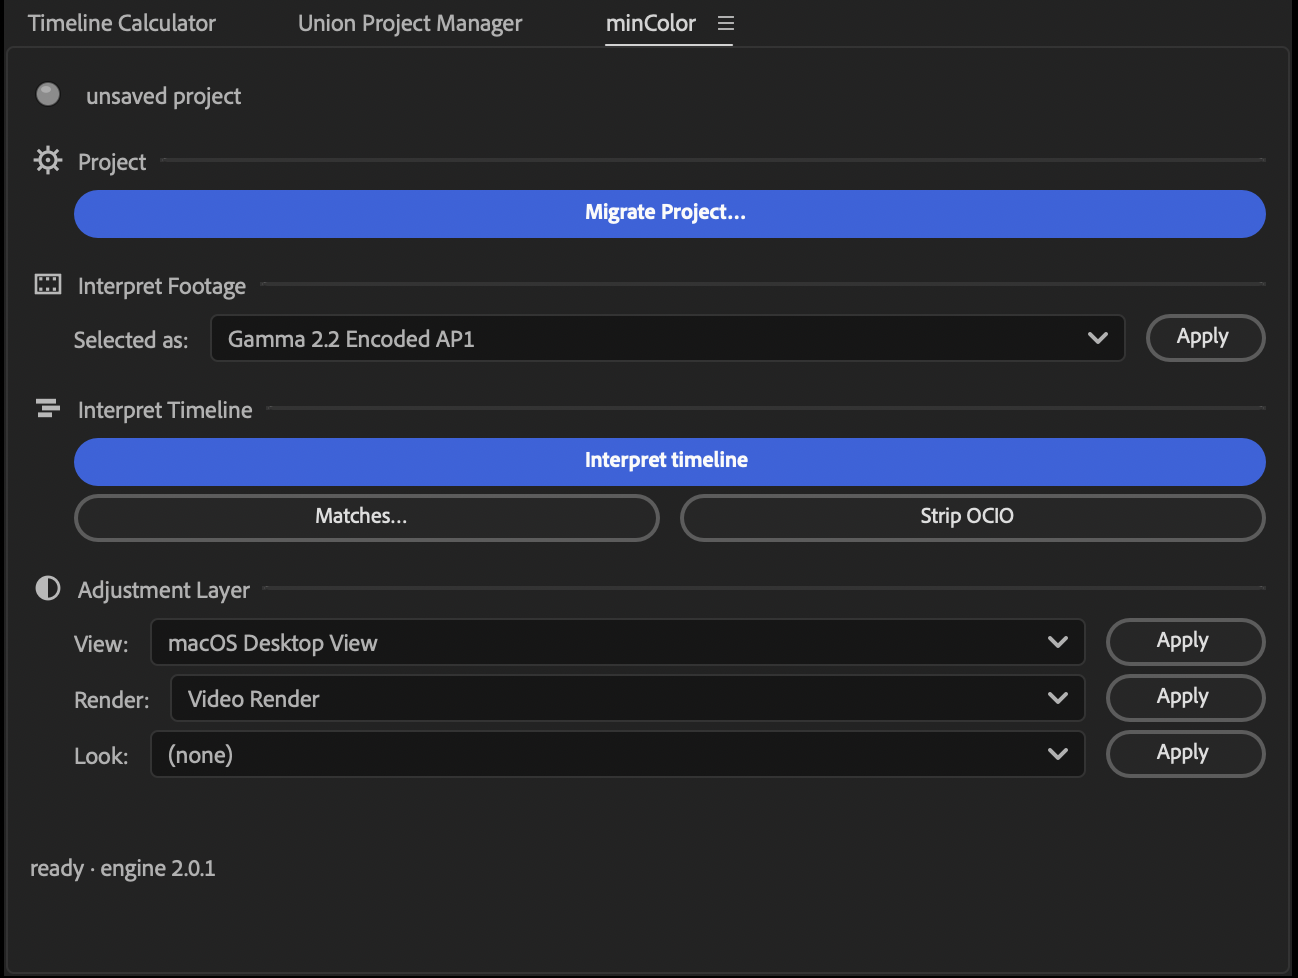
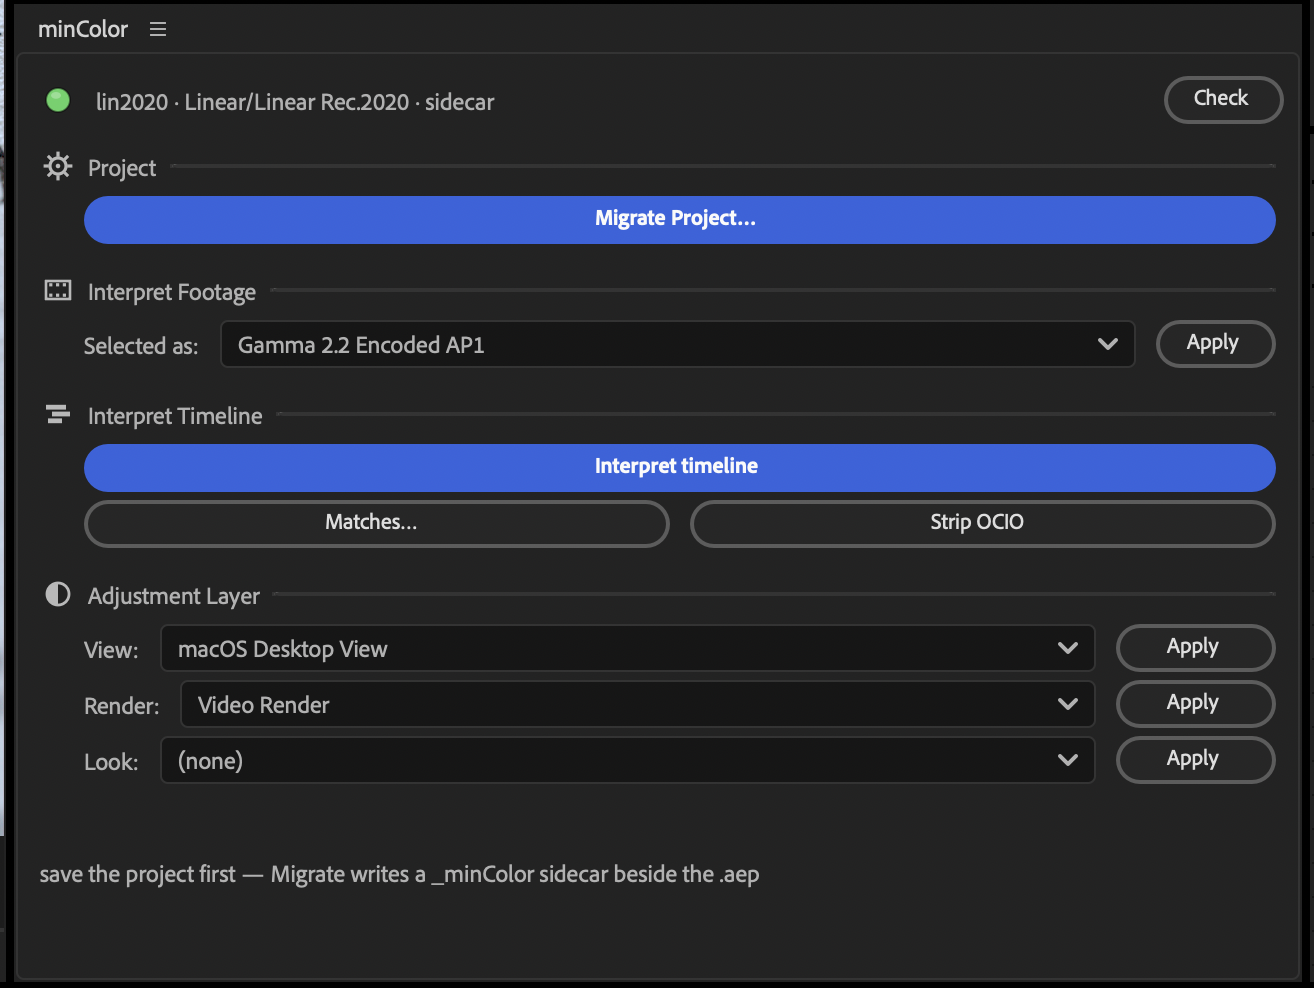
docs

diff --git a/src/minColor Shell.jsx b/src/minColor Shell.jsx
@@ -264,12 +264,14 @@
     if (d) d.__fresh = changed;                       // heal only on TRANSITION, never every tick
     return d;
   }
-  function liveHeal(d) {                              // the panel's auto-heal, engine-computed target
+  function liveHeal(d) {                              // the panel's auto-heal (after a panel command on yellow)
+    /* Through the NATIVE Repair (2026-09-06): it regenerates the _minColor interface config from the
+       embedded preset, re-pins live, rewrites the menus and syncs the effects. The old shell-side
+       re-pin only set the path — with the _minColor folder missing it pinned a file that did not
+       exist and the lamp stayed yellow. */
     var oldPin = app.project.ocioConfigurationFile || "(empty)";
-    app.project.colorManagementSystem = 1;            // (CMS enum: OCIO)
-    app.project.ocioConfigurationFile = d.repairTarget;
+    runCmd("minColor: Repair", {}, "repair");
     app.purge(PurgeTarget.ALL_CACHES);                // cached frames predate the heal
-    runCmd("minColor: Sync From Names", {});          // refresh the effects against the healed authority
     var after = doctorNow();
     if (after && after.status === "green") {
       log("auto-repaired config pin");
@@ -339,9 +341,12 @@
   }
   bRepair.onClick = function () {
     guard("Repair", function () {
-      var d = doctorNow();
-      if (d && d.repairTarget) { liveHeal(d); return "healed"; }
-      var r = runCmd("minColor: Repair", {}, "repair");   // shell-less twin as fallback (reopens)
+      /* ALWAYS the native command (2026-09-06): it regenerates the _minColor interface config from
+         the embedded preset before re-pinning, so a project that arrived WITHOUT its _minColor
+         folder still heals. The shell-side liveHeal only re-points the pin — on a missing file
+         it pinned a path that did not exist and the lamp stayed yellow. (Native Repair has been a
+         live re-pin, no reopen, since 2026-09-05 — the old reason to avoid it is gone.) */
+      var r = runCmd("minColor: Repair", {}, "repair");
       return r.status + (r.repairedTo ? " \u2190 " + r.repairedTo : "");
     });
   };

diff --git a/README.md b/README.md
@@ -1,20 +1,32 @@
 # minColor
 
-**minColor** is an OCIO-based color setup and a workflow plugin for Adobe After Effects. It manages your media and timeline color spaces —  bypassing AE's "Interpret Media" workflow.
+**minColor** is a free and open-source OCIO workflow plugin for Adobe After Effects. It manages your media and timeline color spaces — bypassing AE's "Interpret Media” workflow and using adjustment layers for viewport and render transforms.
 
+> [!NOTE]
 > minColor's approach is inspired by **Brendan Bolles' [fnordware OpenColorIO plug-in](https://www.fnord.com) for After Effects**. See [Credits & third-party notices](THIRD-PARTY-NOTICES.md).
-
-**OCIO-based workflows:**
-- Several **Linear** workflows with common `ACES` and `Blender` staples (ACEScg, ACES AP0, linear rec.709, linear rec.2020). These have familiar settings for anyone comfortable with `ACES` or `Blender` setups.
-- An **SDR** workflow meant to supplement Adobe's legacy ICC/ICM workflow for daily SDR work. The SDR config is based on a `Rec. 709, Gamma 2.2` working space, with easy transforms to `sRGB` and `Rec. 1886` for viewing and output.
-- All profiles use the working space and default media space as `scene_linear` so no more ACEScg vs ACES2065-1 dancing.
-
-Windows- and macOS-flavored view transforms are provided to counteract differences in how After Effects handles color management in each OS. Use this workaround for proper viewport colors on macOS until Adobe fixes it.
 
 
 ---
 
-## Install
+## What it is:
+
+minColor provides:
+
+### A control panel for daily usage.
+
+Easy batch actions for OCIO project management.
+
+![mC_001.png](images/mC_001.png)
+
+### And OCIO effects
+
+Similar in usage to the Native AE OCIO effects, but not reliant on external configs.
+
+![mC_011.png](images/mC_011.png)
+
+---
+
+## How to Install:
 
 ### macOS
 
@@ -24,69 +36,74 @@ Download `minColor-<version>.pkg` from [Releases](https://github.com/cbkow/minCo
 
 Download `minColor-<version>.msi` from [Releases](https://github.com/cbkow/minColor/releases/latest), quit After Effects, and run it. The installer is unsigned, so Windows will ask for permission to run it.
 
----
+### Manually
 
-## The Basics
-
-minColor provides:
-
-#### A scriptUI control panel for daily usage.
-
-![mC_001.png](images/mC_001.png)
-
-#### And OCIO effects
-
-![mC_001.png](images/mC_011.png)
+Download `minColor-<version>.zip` from [Releases](https://github.com/cbkow/minColor/releases) and follow the included instructions to install both the plugin and the UI script.
 
 ---
 
-## Usage
+## Usage:
 
-The Effects layers work just like OCIO native plugins in AE but bypass AE’s color management. When you `migrate` a project, it loads a dummy OCIO profile that simply assigns a working and media default space to the same profile value. Meaning every item in an `ACEScg` project will, by default, be interpreted as `ACEScg` without additional transformations.
+The Effects layers work just like OCIO native plugins in AE but bypass AE’s color management. The Effects themselves handle OCIO configs internally — all of which are derived from ACES 2.0 and Blender 5.2 configs. They do not rely on OCIO configs from AE’s project settings.
 
-This is a hack to effectively tell AE to ***stop thinking about what you are doing!*** The real OCIO profiles are embedded in the plugins and are not dependent on file paths.
+1. First, you `migrate` a project (See Panel Controls Below). It loads a dummy OCIO profile into AE’s project settings that simply assigns the selected color space as both the media-default color space and the working color space. Meaning every item in an `ACEScg` project will, by default, be interpreted as `ACEScg` without additional transformations.
 
-You can then use the minColor effects as a substitute for AE’s default OCIO effects, and mimic a similar OCIO workflow as the classic fnord plugin.
+2. Set your viewing and rendering spaces in the panel and use the panel or the timeline to toggle between the View and Render Adjustment Layers when working/rendering.
+
+3. Interpret Timeline as a batch process that will apply Rendering and View Adjustment Layers automatically and comb through an open timeline (and recursively all precomps within), then assign color profiles to each based on presets set in the `Matches…` button. (See Panel Controls Below)
+
+> [!NOTE]
+> This is a hack to effectively tell AE to ***stop thinking about what you are doing!*** The real OCIO profiles are embedded in the plugins and are not dependent on file paths.
+
+**OCIO-based workflows (selected in Migration):**
+- **ACEScg** is a combination of ACES 2.0 and Blender 5.2 configs. All transforms from both are included. The working and default media spaces are both **ACES AP1 (ACEScg)**, and all media transforms work from there.
+- **ACES2065-1** is a combination of ACES 2.0 and Blender 5.2 configs. All transforms from both are included. The working and default media spaces are both **ACES AP0 (ACES 2065-1)**, and all media transforms work from that assumption.
+- **Linear Rec.709** is a combination of ACES 2.0 and Blender 5.2 configs. All transforms from both are included. The working and default media spaces are both **Linear Rec.709 (Linear sRGB)**, and all media transforms work from that assumption. This has parity to Blender Default flows, including AGX.
+- **Linear Rec.2020** is a combination of ACES 2.0 and Blender 5.2 configs. All transforms from both are included. The working and default media spaces are both **Linear Rec.2020**, and all media transforms assume that.
+- **SDR** is meant to supplement Adobe's legacy ICC/ICM workflow for daily SDR work. The SDR config is based on a `Rec. 709, Gamma 2.2` working space, with easy transforms to `sRGB` and `Rec. 1886` for viewing and output.
+  
+> [!TIP]
+> All profiles use the same working space and default media space, *so no more ACEScg vs ACES2065-1 dancing.*
+
+Windows- and macOS-flavored view transforms are provided to counteract differences in how After Effects handles color management in each OS. Use this workaround for proper viewport colors on macOS until Adobe fixes it.
 
 ---
 
-## Using the panel
+## Panel Controls
 
-#### **Migrate a project** by selecting a working color space. If you pick ACEScg, the working space and default media space are ACEScg. 
+1. **Migrate a project** by selecting a working color space. If you pick ACEScg, the working space and default media space are ACEScg. 
 
 ![mC_001.png](images/mC_012.png)
 
-#### **Interpret Timeline** walks the active comp and every precomp under it, matching all files to color spaces based on presets. 
+2. **Interpret Timeline** walks the active comp and every precomp under it, matching all files to color spaces based on presets. 
 
 ![mC_009.png](images/mC_014.png)
 
-#### Edit these presets with the **Matches** button.
+3. Edit these presets with the **Matches** button.
 
 ![mC_009.png](images/mC_013.png)
 
-#### Use **Interpret Footage** to manually set the chosen layers' color spaces, or change any minColor effect's **Space** dropdown in Effect Controls to set it in place.
+4. Use **Interpret Footage** to manually set the chosen layers' color spaces, or change any minColor effect's **Space** dropdown in Effect Controls to set it in place.
 
 ![mC_009.png](images/mC_015.png)
 
-#### Set your **View** adjustment layer to what you want to see while working, and your **Render** adjustment layer to what you want to output. Use the buttons to quickly toggle between working and rendering.
+5. Set your **View** adjustment layer to what you want to see while working, and your **Render** adjustment layer to what you want to output. Use the buttons to quickly toggle between working and rendering.
 
 ![mC_001.png](images/mC_016.png)
 
 ---
 
-## Healing
+## Healing:
 
-The status line at the top of the panel is minColor's **Doctor** — it checks your project's OCIO pin when the panel opens, when you click the lamp, and after every minColor command (there is no background polling). Green means the project is set up and pointing at the right config; yellow means something drifted; red spells out anything you need to fix by hand.
+The status line at the top of the panel is minColor's **Doctor**. It checks the project's OCIO pin whenever you click into the panel, press **Check**, or run a panel command. Green means the pin points at the project's own config; yellow means it drifted; red spells out anything to fix by hand.
 
-The common drift is a project made on **another machine** (or moved), where the stored config path no longer resolves. minColor **heals that automatically** — it re-points the project at its own local config, live, with no restart. You can also hit **Repair** (or run `minColor: Repair`) to do it on demand, and yellow "update available" means a newer config exists for your preset — a Migrate to the same preset refreshes it.
+The usual drift happens when you open a project on another machine or OS, and the stored dummy config path no longer resolves. Press **Repair** and minColor re-points the project to the `_minColor` config beside it, live, with no restart. One undo reverts it. Your renders are correct either way, because the effects carry their own configs; the pin only tells After Effects to stay out of the way.
 
-Because the real transforms live inside the plugin, healing is just re-pointing a pin — **nothing is rewritten on disk and nothing is backed up**; it's a live change a single undo reverts. And even if a pin never gets healed, your renders are still correct: the effects carry their own configs.
+A yellow "update available" means a newer config exists for your preset. Running **Migrate** again with the same preset refreshes it.
 
 ---
 
 ## The Extras
-
-Regular `sRGB, rec.709, rec.1886, ACES`, and `Blender` workflows are supported, and all the view, looks, and media names you expect are present.
 
 To make things easier and reduce inconsistencies between AE on macOS and Windows, minColor provides common-name aliases for its View and Render options. Any **Desktop-labeled** View or Render option is an alias for `sRGB` flows—typical in web/social/direct/tech branding work. Any View or Render option labeled **"Video”** is better suited for broadcast delivery and standard commercial post-production workflows; they are aliases for `Rec. 709 gamma 2.4 / Rec. 1886 / BT. 1886`.
 
@@ -101,13 +118,14 @@ If you are working in post-production in an offline/online flow, you will most l
 - **Windows or macOS Video Views** are what people will see when they watch videos online or via a desktop video player. *Pick your poison (and lament the state of video today).*
 - **Video Render** is what you will be outputting to offline editors and online finishing artists.
 
-To be extra clear, except for the macOS flavors, these are all aliases for common settings like `sRGB` but are helpful for artists who are unfamiliar. The macOS views counteract a bug in how macOS communicates to macOS. What is this bug?
+To be extra clear, except for the macOS flavors, these are all aliases for common settings like `sRGB` but are helpful for artists who are unfamiliar. The macOS views counteract a bug in how After Effects communicates with macOS. What is this bug?
 
-> AE's macOS viewport hands content to a Display P3 macOS surface without applying proper conversion — sRGB projects don't get the sRGB→P3 primary matrix applied, and P3 projects don't get the encoding curve adjusted to match what the macOS compositor actually decodes, producing wrong colors in the first case and wrong midtones in the second.
+> [!IMPORTANT]
+> AE's macOS viewport hands content to a Display P3 macOS surface without applying proper conversion — sRGB projects don't get the sRGB→P3 primary matrix applied, and P3 projects don't get the encoding curve adjusted to match what the macOS compositor actually decodes, producing wrong colors in the first case and wrong midtones in the second. **The included macOS Views counteract this bug.**
 
 ---
 
-## Worth Noting
+## Worth Noting:
 
 #### ***How minColor sets your color management***
 
@@ -115,9 +133,10 @@ The AE SDK doesn't expose what you need to manage color space programmatically, 
 
 The minColor effect carries its own copy of every color transform, so it renders the same wherever the project lands — in the app and in `aerender` — with no config files to chase and no broken config paths.
 
-*There are community requests for more API control over the settings we want, so this could change in the future if Adobe allows it.*
+> [!NOTE]
+> There are community requests for more API control over the settings we want, so this could change in the future if Adobe allows it.
 
-## Credits
+## Credits:
 
 Inspired by Brendan Bolles' fnordware OpenColorIO plug-in for After Effects. Built on
 [OpenColorIO](https://opencolorio.org) (BSD-3-Clause) and color transforms from the Blender project
